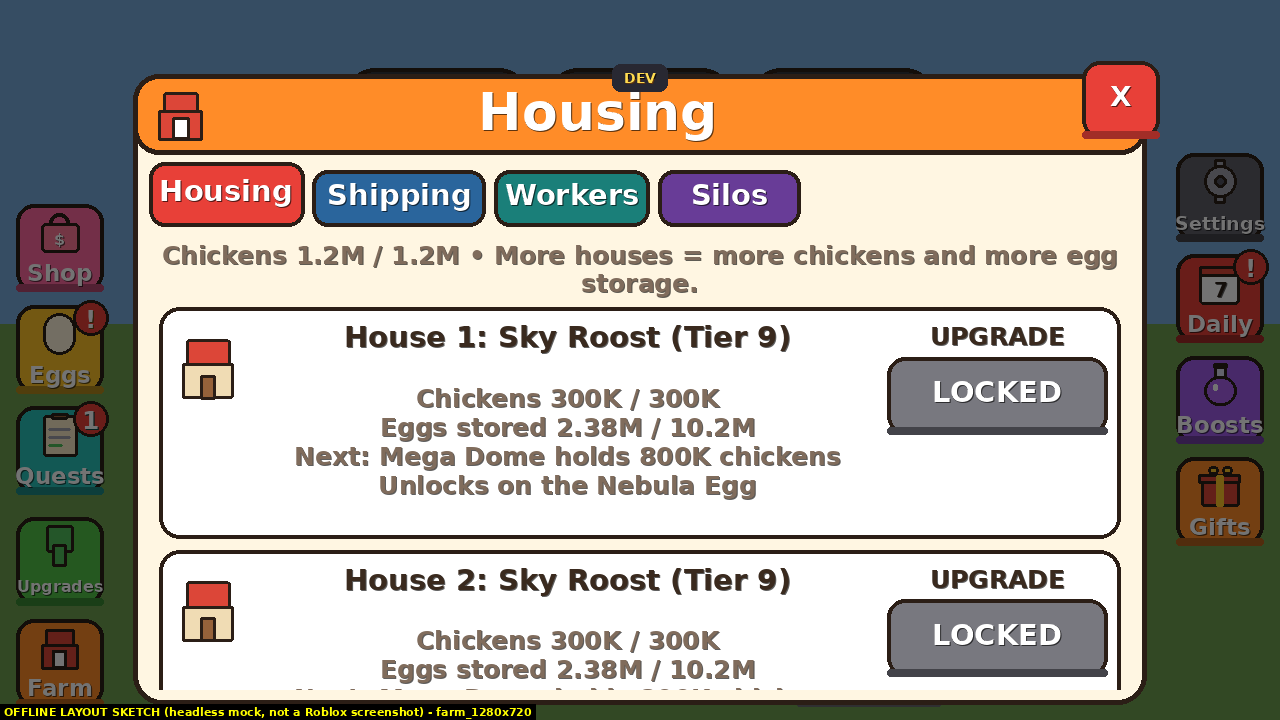
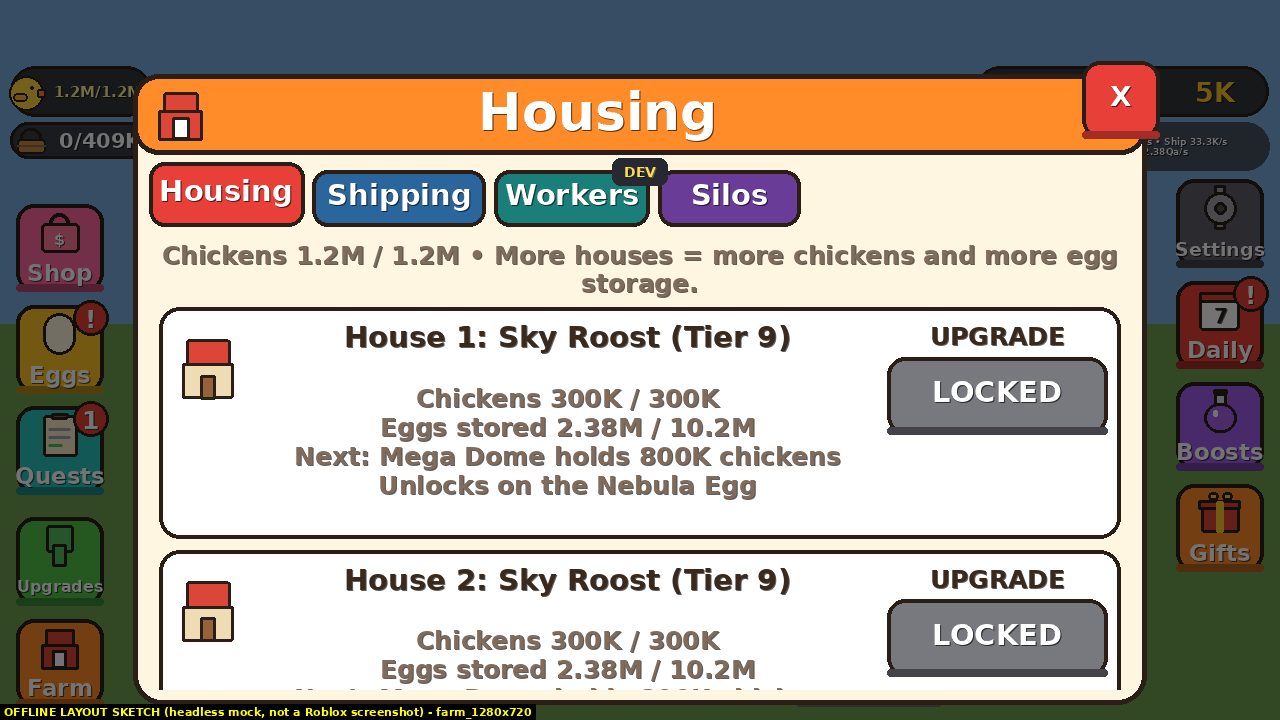
Egg Farm: dev max money / upgrade-all buttons; top counters split left/right at 75%
Test place DEV panel gains MAX MONEY, Upgrade everything +1 level and Max
upgrade everything (repeated one-level passes through the real purchase
actions). HUD counters move from one centred bar to two corner stacks at
75% size (chickens+basket left, cash/gold+production right), meeting at
the top centre on short landscape phones.

Claude-Session: https://claude.ai/code/session_017x5FSwuGxVGHmh5QQGU8jV

diff --git a/egg-farm/README.md b/egg-farm/README.md
@@ -34,7 +34,8 @@ original (see `docs/DESIGN.md` and `docs/REFERENCE_COVERAGE.md`).
    playtesting: it never touches real DataStores and purchases are simulated.
 2. Press Play. You spawn on your own plot and the tutorial starts: tap SPAWN, walk into the
    glowing ring at your coop, then into the warehouse ring, and watch your pickup sell the eggs.
-3. In the test place, press F8 (or the DEV button) for shortcuts: cash, gold, jump to an egg,
+3. In the test place, press F8 (or the DEV button) for shortcuts: MAX MONEY, upgrade everything
+   +1 level, max upgrade everything (level by level through the real purchase rules), cash, gold, jump to an egg,
    max the farm, fast-forward, simulate offline time, next UTC day, checkout success/cancel/fail,
    fail the next load/save, reset, kick to test rejoin.
 4. For two-player tests: Studio → Test → Clients and Servers → 2 players.
